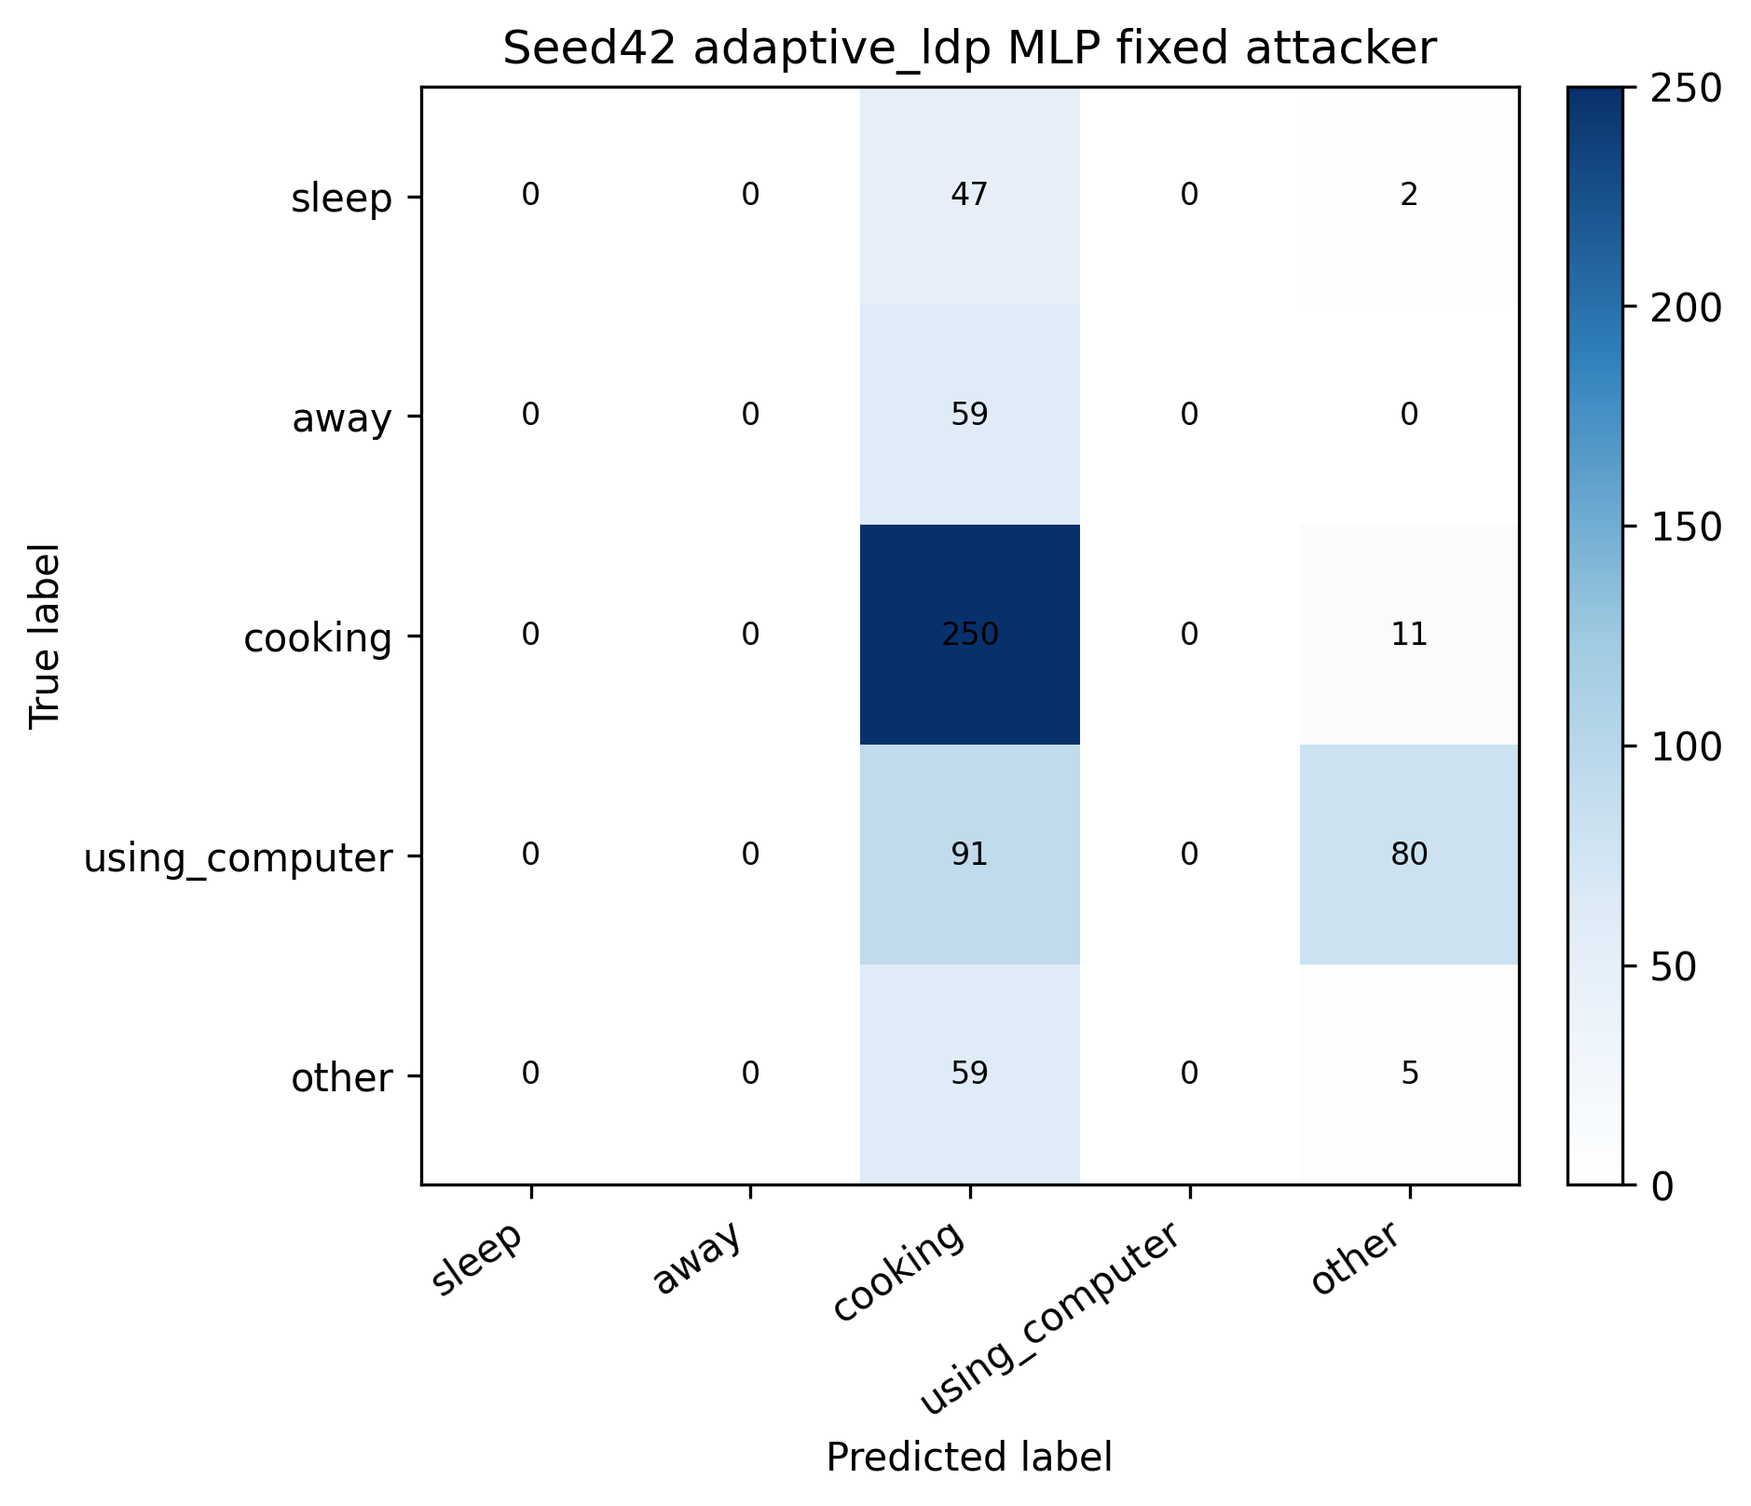
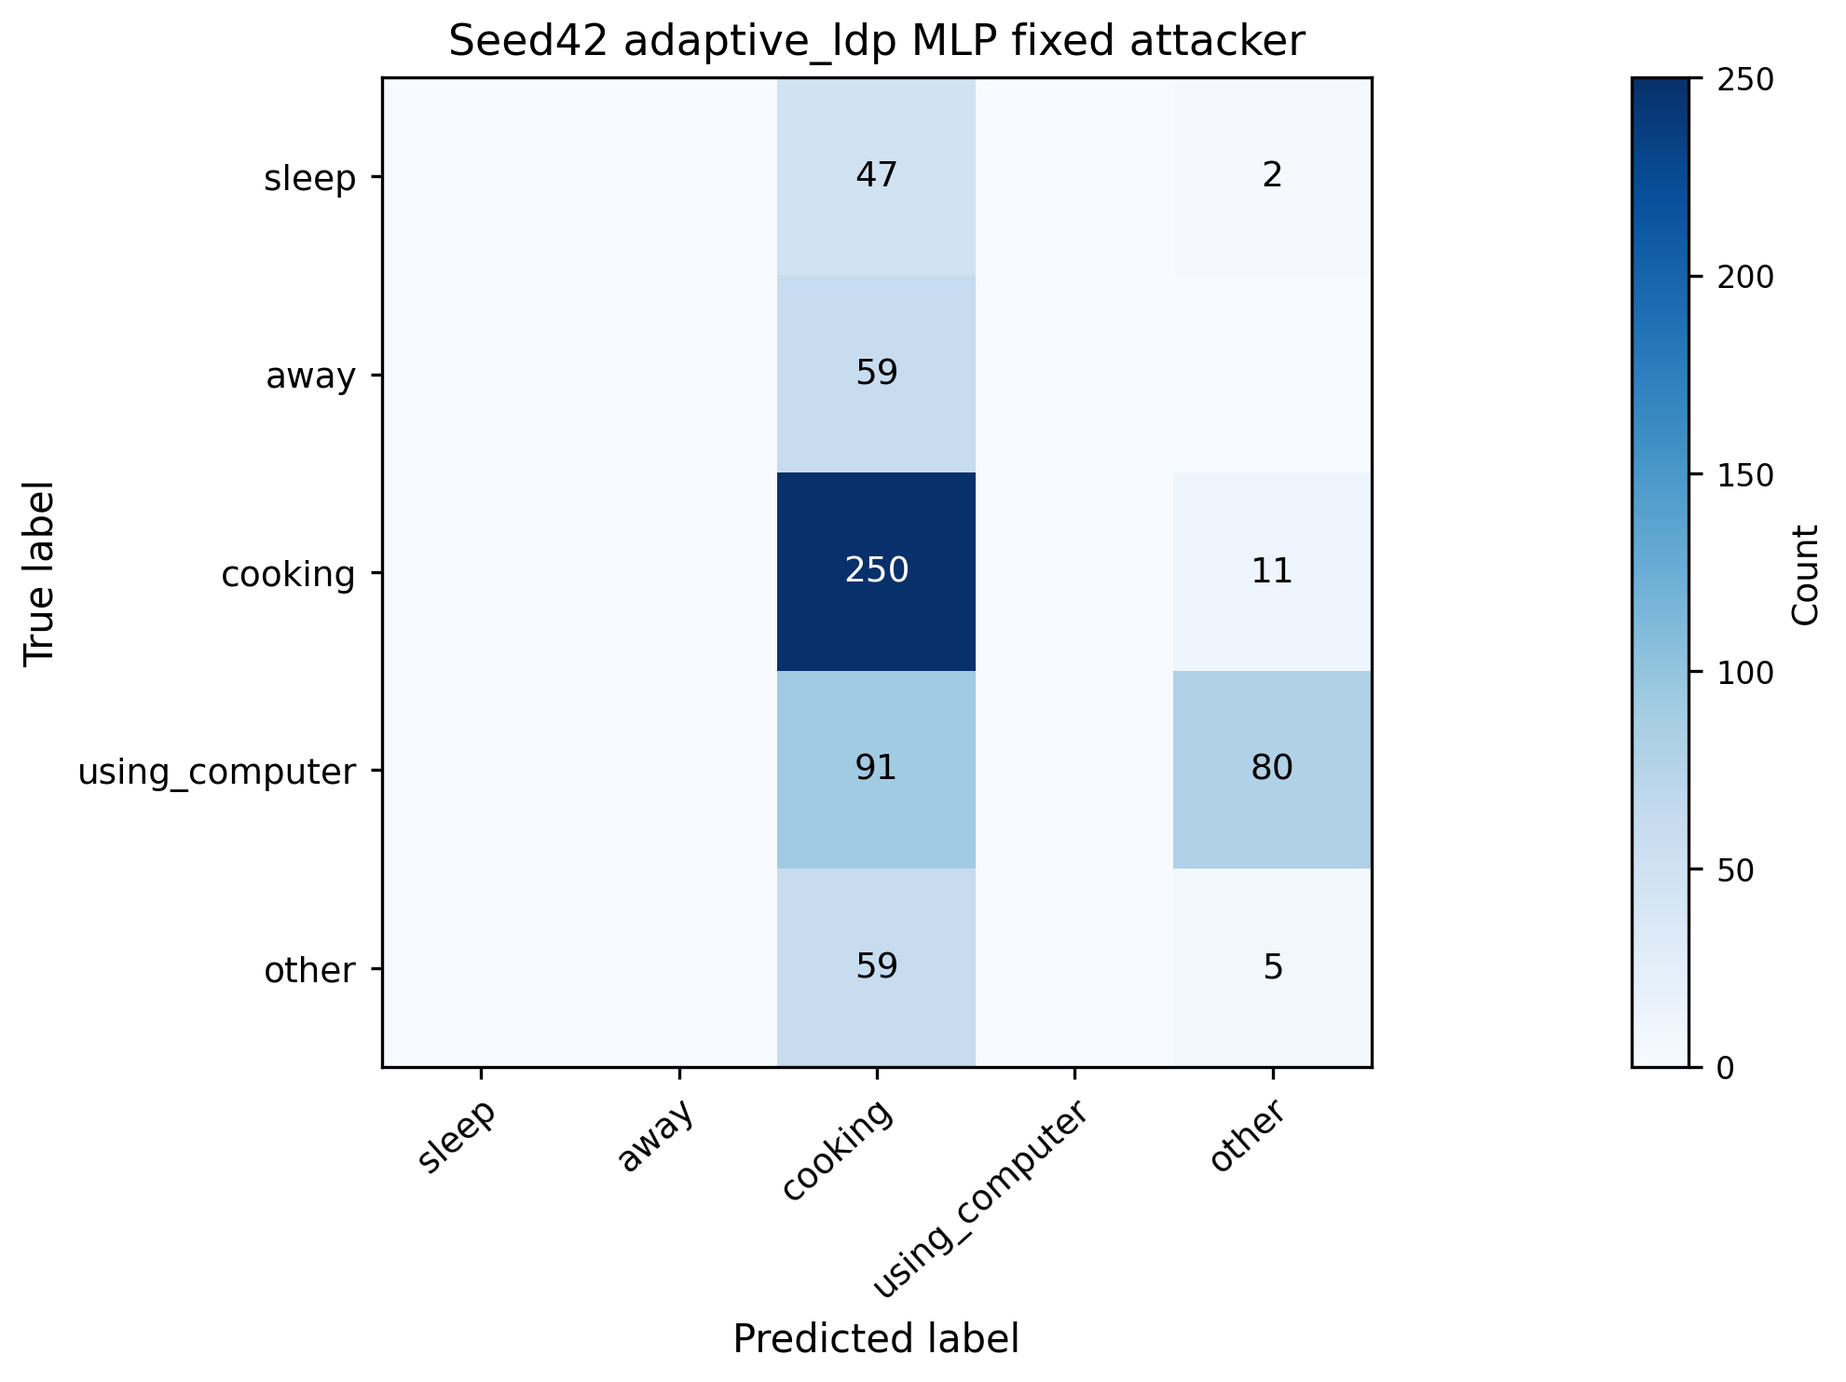
修复第四章混淆矩阵色条遮挡问题

diff --git a/scripts/final_thesis/generate_chapter4_figures.py b/scripts/final_thesis/generate_chapter4_figures.py
@@ -5,10 +5,10 @@
 from __future__ import annotations
 
 import json
+from datetime import datetime
 from pathlib import Path
 
 import matplotlib.pyplot as plt
-from matplotlib.colors import LinearSegmentedColormap
 import numpy as np
 import pandas as pd
 
@@ -28,10 +28,7 @@ PROFILE_ORDER = [
     "adaptive_traffic_only",
     "adaptive_edge_cap_on",
 ]
-CONFUSION_CMAP = LinearSegmentedColormap.from_list(
-    "paper_white_blue",
-    ["#ffffff", "#deebf7", "#9ecae1", "#3182bd", "#08306b"],
-)
+CONFUSION_CMAP = "Blues"
 
 
 def rel(path: Path) -> str:
@@ -255,22 +252,49 @@ def generate_confusion(conf_path: str, output_name: str, title: str, normalize: 
     if normalize:
         row_sums = plot_matrix.sum(axis=1, keepdims=True)
         plot_matrix = np.divide(plot_matrix, row_sums, out=np.zeros_like(plot_matrix), where=row_sums != 0)
-    fig, ax = plt.subplots(figsize=(6.2, 5.5))
-    im = ax.imshow(plot_matrix, cmap=CONFUSION_CMAP, vmin=0, vmax=max(1.0, float(plot_matrix.max())))
-    ax.set_title(title)
-    ax.set_xlabel("Predicted label")
-    ax.set_ylabel("True label")
+
+    vmax = max(1.0, float(plot_matrix.max()))
+    fig = plt.figure(figsize=(6.9, 5.8), constrained_layout=False)
+    gs = fig.add_gridspec(1, 2, width_ratios=[1.0, 0.045], wspace=0.18)
+    ax = fig.add_subplot(gs[0, 0])
+    cax = fig.add_subplot(gs[0, 1])
+
+    im = ax.imshow(plot_matrix, cmap=CONFUSION_CMAP, vmin=0, vmax=vmax)
+    ax.set_title(title, fontsize=11)
+    ax.set_xlabel("Predicted label", fontsize=10)
+    ax.set_ylabel("True label", fontsize=10)
     ax.set_xticks(np.arange(len(names)))
     ax.set_yticks(np.arange(len(names)))
-    ax.set_xticklabels(names, rotation=35, ha="right")
-    ax.set_yticklabels(names)
+    ax.set_xticklabels(names, rotation=42, ha="right", rotation_mode="anchor", fontsize=9)
+    ax.set_yticklabels(names, fontsize=9)
+    ax.tick_params(axis="both", length=3)
+    ax.set_aspect("equal")
+
+    threshold = vmax * 0.55
     for i in range(plot_matrix.shape[0]):
         for j in range(plot_matrix.shape[1]):
             value = plot_matrix[i, j]
-            if matrix.shape[0] <= 10 and (value > 0 or not normalize):
-                ax.text(j, i, label_fmt.format(value), ha="center", va="center", fontsize=8)
-    fig.colorbar(im, ax=ax, fraction=0.046, pad=0.04)
-    return savefig(output_name)
+            if matrix.shape[0] <= 10 and value > 0:
+                text_color = "white" if value >= threshold else "black"
+                ax.text(
+                    j,
+                    i,
+                    label_fmt.format(value),
+                    ha="center",
+                    va="center",
+                    fontsize=9,
+                    color=text_color,
+                )
+
+    cbar = fig.colorbar(im, cax=cax)
+    cbar.set_label("Count" if not normalize else "Row-normalized value", fontsize=9)
+    cbar.ax.tick_params(labelsize=8)
+    fig.subplots_adjust(left=0.18, right=0.93, bottom=0.27, top=0.88)
+
+    path = FIG_DIR / output_name
+    fig.savefig(path, dpi=300, bbox_inches="tight", pad_inches=0.08)
+    plt.close(fig)
+    return path
 
 
 def generate_confusions() -> list[Path]:
@@ -526,7 +550,10 @@ def write_figure_audit(generated: list[Path]) -> None:
         "training_rerun_needed": False,
         "cooja_simulation_rerun_needed": False,
         "legend_notes": "All thesis parameter scan figures include legends for defended accuracy and MSE with axis labels.",
-        "confusion_matrix_style": "Unified white-to-deep-blue colormap for thesis confusion matrices.",
+        "confusion_matrix_style": (
+            "Unified Blues colormap for thesis confusion matrices; colorbar uses an independent axis and "
+            "does not overlap the heatmap body."
+        ),
     }
     (SUMMARY_DIR / "thesis_chapter4_figure_audit.json").write_text(
         json.dumps(audit, ensure_ascii=False, indent=2), encoding="utf-8"
@@ -625,24 +652,24 @@ def update_indexes(generated: list[Path]) -> None:
             "thesis_fig4_07_confusion_mock_baseline.png",
             "outputs/experiments/mock/seed_42/lstm/baseline/baseline_confusion.json",
             "4.5",
-            "展示无防御状态下的主要误分布。",
-            "单 seed 代表性样本，不替代全矩阵均值。",
+            "展示无防御状态下的主要误分布；论文专用图已修复 colorbar 覆盖问题。",
+            "单 seed 代表性样本，不替代全矩阵均值；图像由 scripts/final_thesis/generate_chapter4_figures.py 生成。",
         ),
         (
             "图4.8 adaptive_ldp 下 LSTM fixed_attacker 混淆矩阵",
             "thesis_fig4_08_confusion_mock_adaptive_lstm_fixed.png",
             "outputs/experiments/mock/seed_42/lstm/adaptive_ldp/fixed_attacker/confusion.json",
             "4.5",
-            "展示防御后类别预测分布如何变化。",
-            "单 seed 代表性样本。",
+            "展示防御后类别预测分布如何变化；论文专用图已修复 colorbar 覆盖问题。",
+            "单 seed 代表性样本；图像由 scripts/final_thesis/generate_chapter4_figures.py 生成。",
         ),
         (
             "图4.9 adaptive_ldp 下 MLP fixed_attacker 混淆矩阵",
             "thesis_fig4_09_confusion_mock_mlp_fixed.png",
             "outputs/experiments/mock/seed_42/mlp/adaptive_ldp/fixed_attacker/confusion.json",
             "4.5",
-            "展示 MLP 在相同防御下的错误集中情况。",
-            "如篇幅有限，正文可只选用 LSTM 相关矩阵。",
+            "展示 MLP 在相同防御下的错误集中情况；论文专用图已修复 colorbar 覆盖问题。",
+            "如篇幅有限，正文可只选用 LSTM 相关矩阵；图像由 scripts/final_thesis/generate_chapter4_figures.py 生成。",
         ),
         (
             "图4.10 真实数据集准确率对比",
@@ -741,13 +768,79 @@ def update_indexes(generated: list[Path]) -> None:
     artifact_index.write_text(original.rstrip() + "\n\n" + "\n".join(add) + "\n", encoding="utf-8")
 
 
+def write_confusion_fix_report(confusion_paths: list[Path]) -> None:
+    image_rows: list[dict[str, object]] = []
+    for path in confusion_paths:
+        row: dict[str, object] = {
+            "path": rel(path),
+            "exists": path.exists(),
+            "width_px": None,
+            "height_px": None,
+            "dpi": None,
+        }
+        if path.exists():
+            try:
+                from PIL import Image
+
+                with Image.open(path) as image:
+                    dpi = image.info.get("dpi")
+                    row.update(
+                        {
+                            "width_px": image.width,
+                            "height_px": image.height,
+                            "dpi": [round(float(v), 2) for v in dpi] if dpi else None,
+                        }
+                    )
+            except Exception as exc:  # pragma: no cover - report should not fail figure generation
+                row["image_probe_error"] = str(exc)
+        image_rows.append(row)
+
+    report = {
+        "generated_at": datetime.now().isoformat(timespec="seconds"),
+        "modified_script": "scripts/final_thesis/generate_chapter4_figures.py",
+        "regenerated_confusion_figures": [rel(path) for path in confusion_paths],
+        "uses_independent_colorbar_axis": True,
+        "colorbar_removed": False,
+        "colormap": "Blues",
+        "layout_method": "matplotlib GridSpec with a separate cax column for colorbar",
+        "overlap_risk_check": "Colorbar is rendered on a dedicated axis outside the heatmap body.",
+        "image_dimensions": image_rows,
+        "experiments_rerun": False,
+        "word_document_modified": False,
+    }
+    (SUMMARY_DIR / "chapter4_confusion_figure_fix_report.json").write_text(
+        json.dumps(report, ensure_ascii=False, indent=2), encoding="utf-8"
+    )
+
+    lines = [
+        "# 第四章混淆矩阵图修复报告",
+        "",
+        "- 修改脚本: `scripts/final_thesis/generate_chapter4_figures.py`",
+        "- 修复方式: 使用 GridSpec 为 colorbar 单独预留轴，避免色条覆盖混淆矩阵主体。",
+        "- colorbar 是否取消: 否。",
+        "- 色彩方案: `Blues` 蓝白色。",
+        "- 是否重跑实验: 否，仅基于已有 `confusion.json` 重新绘图。",
+        "- 是否修改 Word 文档: 否。",
+        "",
+        "## 重新生成的混淆矩阵图",
+        "",
+    ]
+    for row in image_rows:
+        lines.append(f"- `{row['path']}`")
+        lines.append(f"  - 尺寸: `{row.get('width_px')} x {row.get('height_px')}` px")
+        lines.append(f"  - DPI: `{row.get('dpi')}`")
+        lines.append("  - 遮挡风险: colorbar 位于独立轴，不覆盖热力图格子或数字标注。")
+    (SUMMARY_DIR / "chapter4_confusion_figure_fix_report.md").write_text("\n".join(lines) + "\n", encoding="utf-8")
+
+
 def main() -> None:
     generated: list[Path] = []
     generated.append(generate_mock_accuracy())
     generated.append(generate_mock_distortion())
     generated.extend(generate_mock_parameter_scans())
     generated.append(generate_adaptive_ablation())
-    generated.extend(generate_confusions())
+    confusion_paths = generate_confusions()
+    generated.extend(confusion_paths)
     generated.append(generate_real_accuracy())
     generated.append(generate_real_parameter_scan())
     generated.append(generate_cooja_accuracy())
@@ -756,6 +849,7 @@ def main() -> None:
     generated.append(generate_cooja_energy_delay())
     write_figure_audit(generated)
     update_indexes(generated)
+    write_confusion_fix_report(confusion_paths)
     print(json.dumps({"generated": [rel(p) for p in generated]}, ensure_ascii=False, indent=2))
 
 

diff --git a/outputs/summaries/final_thesis/artifact_index.md b/outputs/summaries/final_thesis/artifact_index.md
@@ -76,9 +76,9 @@
 - `outputs/figures/summaries/final_thesis/thesis_fig4_04_noise_parameter_scan.png`：图4.4 noise 参数扫描；数据来源 `outputs/summaries/final_thesis/mock/mock_parameter_scan_noise.csv`；适合第 4.3.3、4.4 节；展示 noise_scale 增大时攻击准确率和失真指标的变化。；口径为 mock、LSTM、fixed_attacker，三组 seed 平均。
 - `outputs/figures/summaries/final_thesis/thesis_fig4_05_adaptive_ldp_parameter_scan.png`：图4.5 adaptive_ldp profile 参数扫描；数据来源 `outputs/summaries/final_thesis/mock/mock_parameter_scan_adaptive_ldp.csv`；适合第 4.3.3、4.4 节；展示 6 个 adaptive_ldp profile 的 defended_acc 与 MSE。；属于 profile 级实验观察，不作为形式化理论证明。
 - `outputs/figures/summaries/final_thesis/thesis_fig4_06_adaptive_ldp_ablation.png`：图4.6 adaptive_ldp 消融图；数据来源 `outputs/summaries/final_thesis/mock/mock_adaptive_ldp_ablation_summary.csv`；适合第 4.4 节；展示不同预算范围、风险权重和边缘预算裁剪接口下的结果差异。；口径为 mock、LSTM、fixed_attacker。
-- `outputs/figures/summaries/final_thesis/thesis_fig4_07_confusion_mock_baseline.png`：图4.7 LSTM 基线混淆矩阵；数据来源 `outputs/experiments/mock/seed_42/lstm/baseline/baseline_confusion.json`；适合第 4.5 节；展示无防御状态下的主要误分布。；单 seed 代表性样本，不替代全矩阵均值。
-- `outputs/figures/summaries/final_thesis/thesis_fig4_08_confusion_mock_adaptive_lstm_fixed.png`：图4.8 adaptive_ldp 下 LSTM fixed_attacker 混淆矩阵；数据来源 `outputs/experiments/mock/seed_42/lstm/adaptive_ldp/fixed_attacker/confusion.json`；适合第 4.5 节；展示防御后类别预测分布如何变化。；单 seed 代表性样本。
-- `outputs/figures/summaries/final_thesis/thesis_fig4_09_confusion_mock_mlp_fixed.png`：图4.9 adaptive_ldp 下 MLP fixed_attacker 混淆矩阵；数据来源 `outputs/experiments/mock/seed_42/mlp/adaptive_ldp/fixed_attacker/confusion.json`；适合第 4.5 节；展示 MLP 在相同防御下的错误集中情况。；如篇幅有限，正文可只选用 LSTM 相关矩阵。
+- `outputs/figures/summaries/final_thesis/thesis_fig4_07_confusion_mock_baseline.png`：图4.7 LSTM 基线混淆矩阵；数据来源 `outputs/experiments/mock/seed_42/lstm/baseline/baseline_confusion.json`；适合第 4.5 节；展示无防御状态下的主要误分布；论文专用图已修复 colorbar 覆盖问题。；单 seed 代表性样本，不替代全矩阵均值；图像由 scripts/final_thesis/generate_chapter4_figures.py 生成。
+- `outputs/figures/summaries/final_thesis/thesis_fig4_08_confusion_mock_adaptive_lstm_fixed.png`：图4.8 adaptive_ldp 下 LSTM fixed_attacker 混淆矩阵；数据来源 `outputs/experiments/mock/seed_42/lstm/adaptive_ldp/fixed_attacker/confusion.json`；适合第 4.5 节；展示防御后类别预测分布如何变化；论文专用图已修复 colorbar 覆盖问题。；单 seed 代表性样本；图像由 scripts/final_thesis/generate_chapter4_figures.py 生成。
+- `outputs/figures/summaries/final_thesis/thesis_fig4_09_confusion_mock_mlp_fixed.png`：图4.9 adaptive_ldp 下 MLP fixed_attacker 混淆矩阵；数据来源 `outputs/experiments/mock/seed_42/mlp/adaptive_ldp/fixed_attacker/confusion.json`；适合第 4.5 节；展示 MLP 在相同防御下的错误集中情况；论文专用图已修复 colorbar 覆盖问题。；如篇幅有限，正文可只选用 LSTM 相关矩阵；图像由 scripts/final_thesis/generate_chapter4_figures.py 生成。
 - `outputs/figures/summaries/final_thesis/thesis_fig4_10_real_dataset_accuracy.png`：图4.10 真实数据集准确率对比；数据来源 `outputs/summaries/final_thesis/real/real_summary.csv`；适合第 4.7 节；展示 UCI HAR、Kasteren、CASAS 各自内部 baseline 到 defended 的变化。；不同数据集类别数和任务定义不同，不做绝对排名。
 - `outputs/figures/summaries/final_thesis/thesis_fig4_11_real_dataset_parameter_scan.png`：图4.11 真实数据集 LDP 参数扫描；数据来源 `outputs/summaries/final_thesis/real/real_parameter_scan_ldp.csv`；适合第 4.7 节；展示真实数据上参数扫描覆盖后的趋势支持。；按数据集分面，口径为 LSTM fixed_attacker。
 - `outputs/figures/summaries/final_thesis/thesis_fig4_12_cooja_accuracy.png`：图4.12 Cooja 节点级准确率对比；数据来源 `outputs/summaries/final_thesis/cooja/cooja_summary.csv`；适合第 4.6 节；展示 dummy_noise、dummy_ldp、dummy_adaptive_ldp 在 fixed/retrain 下的攻击准确率变化。；Cooja 部分只作节点侧功能性验证，不表示真实能耗或端到端时延测量。

diff --git a/outputs/summaries/final_thesis/figure_table_list.md b/outputs/summaries/final_thesis/figure_table_list.md
@@ -49,22 +49,22 @@
 - 图路径：`outputs/figures/summaries/final_thesis/thesis_fig4_07_confusion_mock_baseline.png`
 - 数据来源：`outputs/experiments/mock/seed_42/lstm/baseline/baseline_confusion.json`
 - 适合章节：4.5
-- 主要说明：展示无防御状态下的主要误分布。
-- 口径限制：单 seed 代表性样本，不替代全矩阵均值。
+- 主要说明：展示无防御状态下的主要误分布；论文专用图已修复 colorbar 覆盖问题。
+- 口径限制：单 seed 代表性样本，不替代全矩阵均值；图像由 scripts/final_thesis/generate_chapter4_figures.py 生成。
 
 ### 图4.8 adaptive_ldp 下 LSTM fixed_attacker 混淆矩阵
 - 图路径：`outputs/figures/summaries/final_thesis/thesis_fig4_08_confusion_mock_adaptive_lstm_fixed.png`
 - 数据来源：`outputs/experiments/mock/seed_42/lstm/adaptive_ldp/fixed_attacker/confusion.json`
 - 适合章节：4.5
-- 主要说明：展示防御后类别预测分布如何变化。
-- 口径限制：单 seed 代表性样本。
+- 主要说明：展示防御后类别预测分布如何变化；论文专用图已修复 colorbar 覆盖问题。
+- 口径限制：单 seed 代表性样本；图像由 scripts/final_thesis/generate_chapter4_figures.py 生成。
 
 ### 图4.9 adaptive_ldp 下 MLP fixed_attacker 混淆矩阵
 - 图路径：`outputs/figures/summaries/final_thesis/thesis_fig4_09_confusion_mock_mlp_fixed.png`
 - 数据来源：`outputs/experiments/mock/seed_42/mlp/adaptive_ldp/fixed_attacker/confusion.json`
 - 适合章节：4.5
-- 主要说明：展示 MLP 在相同防御下的错误集中情况。
-- 口径限制：如篇幅有限，正文可只选用 LSTM 相关矩阵。
+- 主要说明：展示 MLP 在相同防御下的错误集中情况；论文专用图已修复 colorbar 覆盖问题。
+- 口径限制：如篇幅有限，正文可只选用 LSTM 相关矩阵；图像由 scripts/final_thesis/generate_chapter4_figures.py 生成。
 
 ### 图4.10 真实数据集准确率对比
 - 图路径：`outputs/figures/summaries/final_thesis/thesis_fig4_10_real_dataset_accuracy.png`

diff --git a/outputs/summaries/final_thesis/chapter4_confusion_figure_fix_report.md b/outputs/summaries/final_thesis/chapter4_confusion_figure_fix_report.md
@@ -1,0 +1,23 @@
+# 第四章混淆矩阵图修复报告
+
+- 修改脚本: `scripts/final_thesis/generate_chapter4_figures.py`
+- 修复方式: 使用 GridSpec 为 colorbar 单独预留轴，避免色条覆盖混淆矩阵主体。
+- colorbar 是否取消: 否。
+- 色彩方案: `Blues` 蓝白色。
+- 是否重跑实验: 否，仅基于已有 `confusion.json` 重新绘图。
+- 是否修改 Word 文档: 否。
+
+## 重新生成的混淆矩阵图
+
+- `outputs/figures/summaries/final_thesis/thesis_fig4_07_confusion_mock_baseline.png`
+  - 尺寸: `1981 x 1483` px
+  - DPI: `[300.0, 300.0]`
+  - 遮挡风险: colorbar 位于独立轴，不覆盖热力图格子或数字标注。
+- `outputs/figures/summaries/final_thesis/thesis_fig4_08_confusion_mock_adaptive_lstm_fixed.png`
+  - 尺寸: `1981 x 1483` px
+  - DPI: `[300.0, 300.0]`
+  - 遮挡风险: colorbar 位于独立轴，不覆盖热力图格子或数字标注。
+- `outputs/figures/summaries/final_thesis/thesis_fig4_09_confusion_mock_mlp_fixed.png`
+  - 尺寸: `1981 x 1483` px
+  - DPI: `[300.0, 300.0]`
+  - 遮挡风险: colorbar 位于独立轴，不覆盖热力图格子或数字标注。
